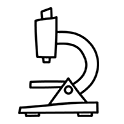
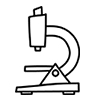
jakob og matilde
Styr på lokalmenu sticky samt ændring i style

Changed region(s): [[0.12, 0.03, 0.81, 0.96]]

diff --git a/styles.css b/styles.css
@@ -480,28 +480,31 @@ hr {
 /*Lokal menu*/
 .lokalmenu {
   display: flex;
+  height: 12.5vw;
   justify-content: space-between;
   align-items: center;
   background-color: rgba(234, 211, 149, 1);
   padding-left: 10%;
   padding-right: 10%;
+  position: sticky;
+  top:0;
+  z-index: 4;
 }
-
 .lokalmenu a {
   text-decoration: none;
   color: black;
 }
-
+.lokalmenu h4{
+  margin:-0.4em 0 0 0;
+}
 .ikontekst {
   display: block;
   justify-content: center;
   align-items: center;
   text-align: center;
 }
-
 .ikon {
-  margin-top: 10%;
-  margin-bottom: -20%;
+  margin-top: -1em;
 }
 
 /*Tidslinje*/
